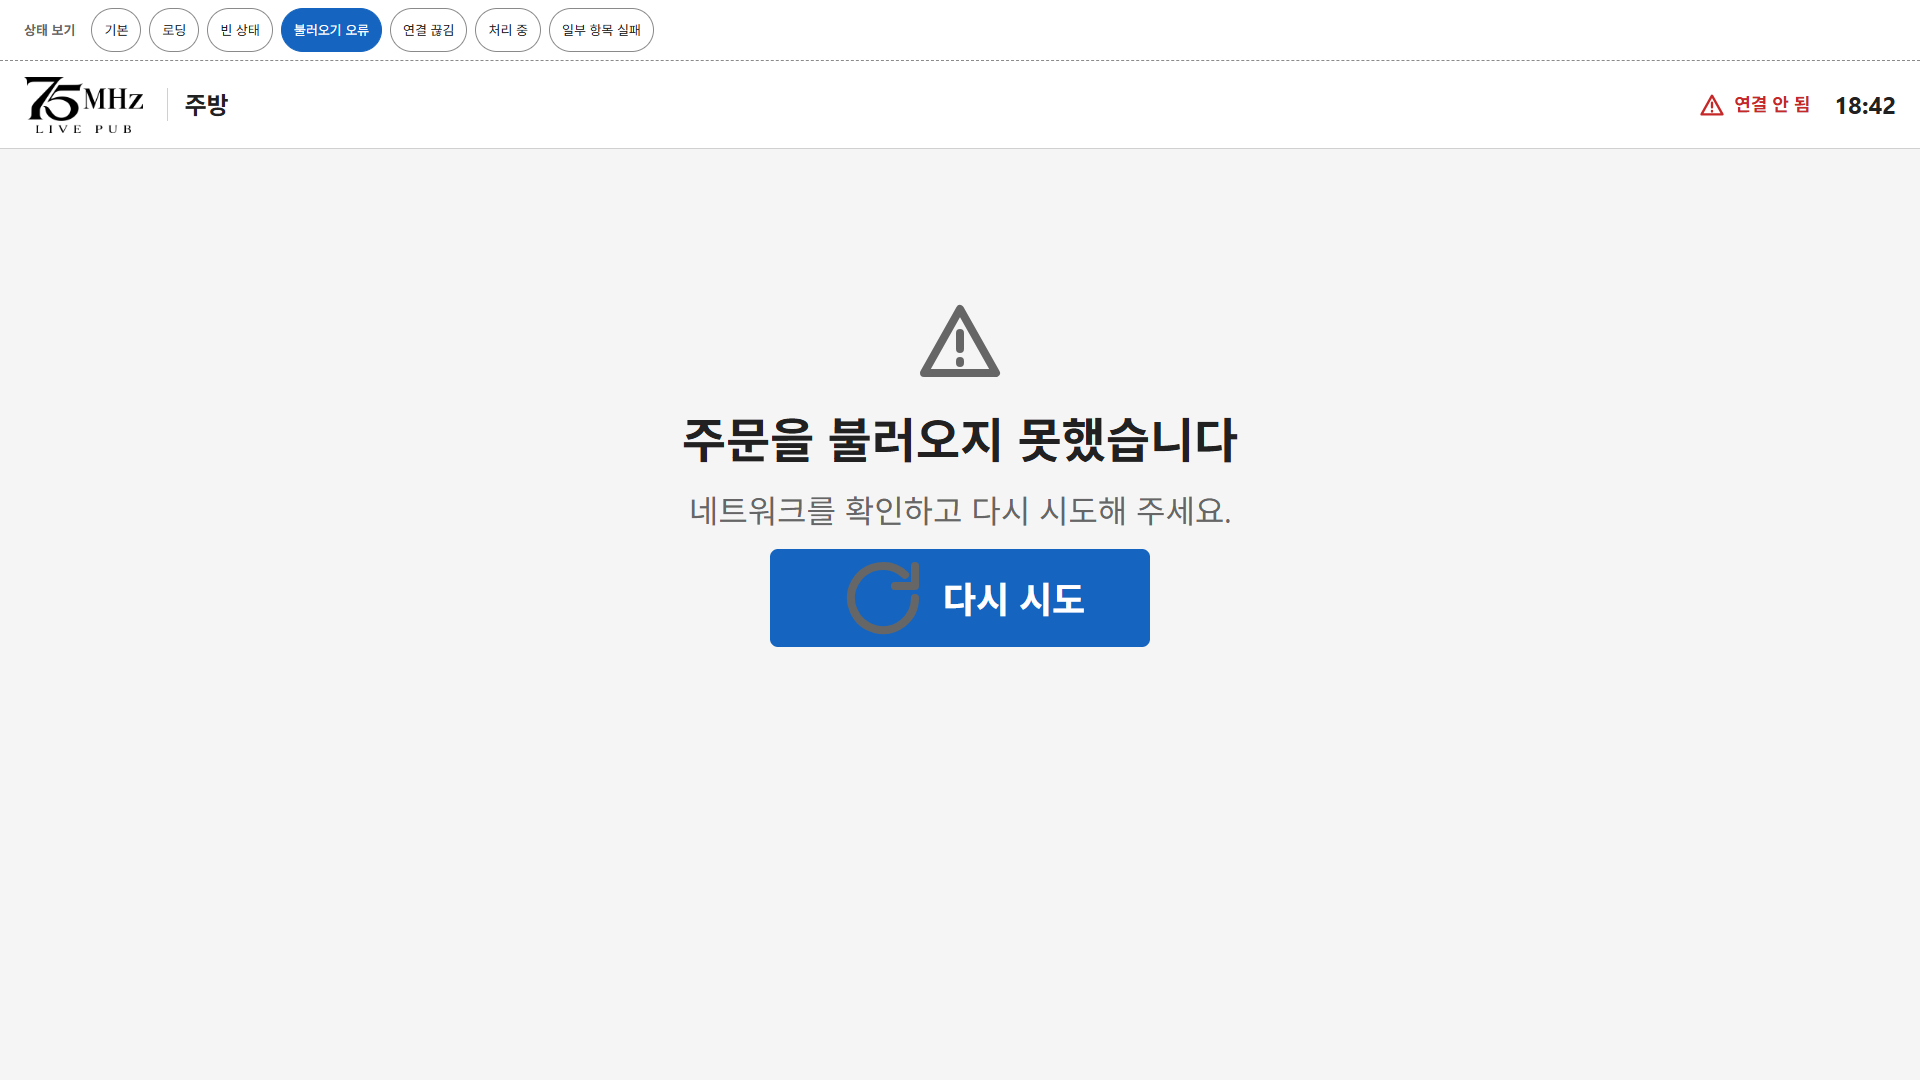
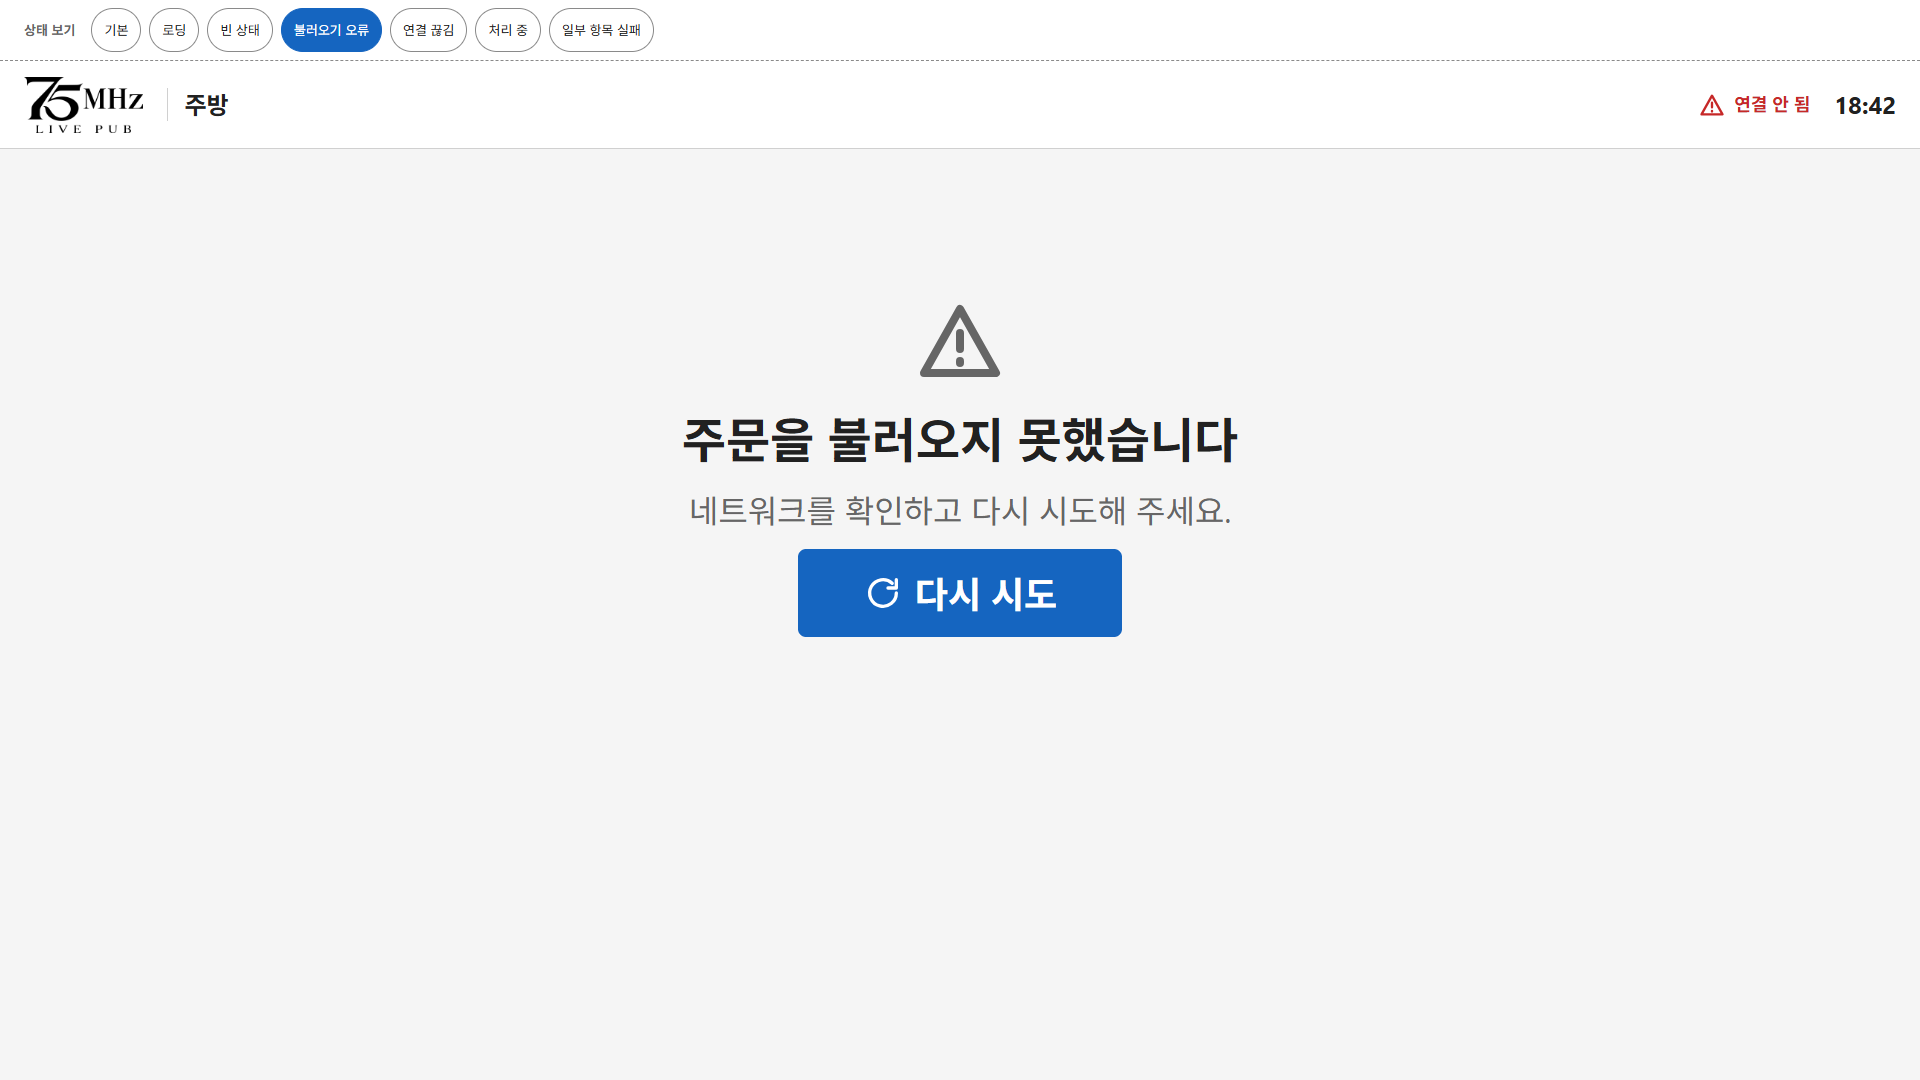
docs(design): U-04 오류 상태 버튼 아이콘 색, 테마 결정 근거 문구 정정

Changed region(s): [[0.375, 0.4889, 0.625, 0.6111]]

diff --git a/docs/design/kitchen/prototype/kitchen-states.html b/docs/design/kitchen/prototype/kitchen-states.html
@@ -16,6 +16,7 @@
   .k-full { grid-column: 1 / -1; }
   .k-state { display: flex; flex-direction: column; align-items: center; gap: var(--gap-lg); padding: 120px var(--spacing-xl); text-align: center; }
   .k-state .icon { width: 96px; height: 96px; color: var(--color-text-secondary); }
+  .k-state .btn .icon { width: 40px; height: 40px; color: inherit; }
   .k-state h2 { font-size: 48px; font-weight: var(--font-weight-bold); }
   .k-state p { font-size: var(--font-size-kitchen-meta); color: var(--color-text-secondary); }
   .k-skel { height: 220px; border-radius: var(--radius-md); background: var(--color-border-light); animation: pulse 1.4s ease-in-out infinite; }

diff --git a/docs/design/kitchen/spec.md b/docs/design/kitchen/spec.md
@@ -46,7 +46,7 @@
 일괄 처리 중 일부 항목만 실패하면 성공한 항목은 그대로 두고 실패한 항목 행만 빨간 "다시 시도"(경고 아이콘 + 글자) 버튼으로 바꾼다. 화면 상단에 `role="alert"` 배너로 "7번 테이블: 3개 중 1개를 처리하지 못했습니다 / 제육볶음만 다시 시도해 주세요. 나머지 2개는 처리됐습니다."를 남긴다. 배너는 자동으로 사라지지 않고 다시 시도가 성공하면 닫힌다.
 
 ## 결정 3. 테마
-주방 다크 팔레트(#111, #222)는 1차에서 쓰지 않고 다른 화면과 같은 밝은 테마로 통일한다(D-38 다크 모드 제외, 토큰 단일화). 근거: 밝은 주방 조명에서 흰 배경이 눈부시다는 현장 의견이 없고, 대비는 밝은 테마가 16.1:1로 충분하다. 현장 테스트에서 눈부심 의견이 나오면 2차에서 토큰으로 다크 테마를 추가한다. 정주현 님 확인 필요.
+주방 다크 팔레트(#111, #222)는 1차에서 쓰지 않고 다른 화면과 같은 밝은 테마로 통일한다(D-38 다크 모드 제외, 토큰 단일화). 근거: 토큰을 하나로 유지하는 것이 1차 범위에 맞고, 밝은 테마 본문 대비는 16.1:1(직접 계산)이다. 주방 조명 환경은 확인하지 못했다. 현장 테스트에서 눈부심 의견이 나오면 2차에서 토큰으로 다크 테마를 추가한다. 정주현 님 확인 필요.
 
 ## 상태 정의
 - **기본:** 두 레인과 카드. 접수 10분 이상(제안) 카드는 주황 테두리 + "지연" 배지.
